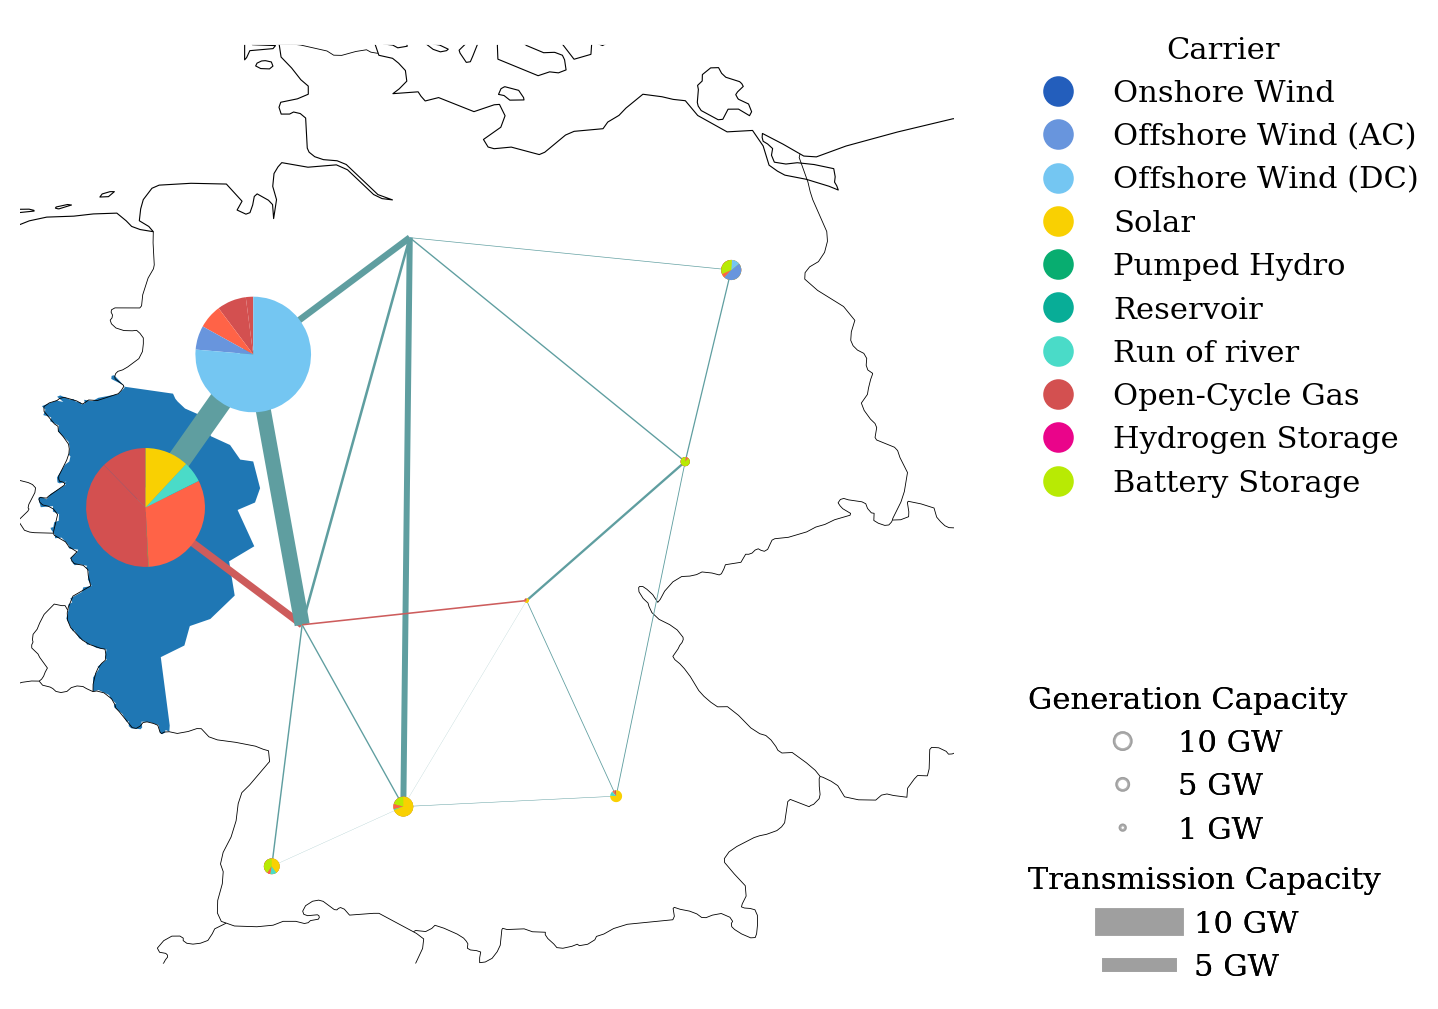
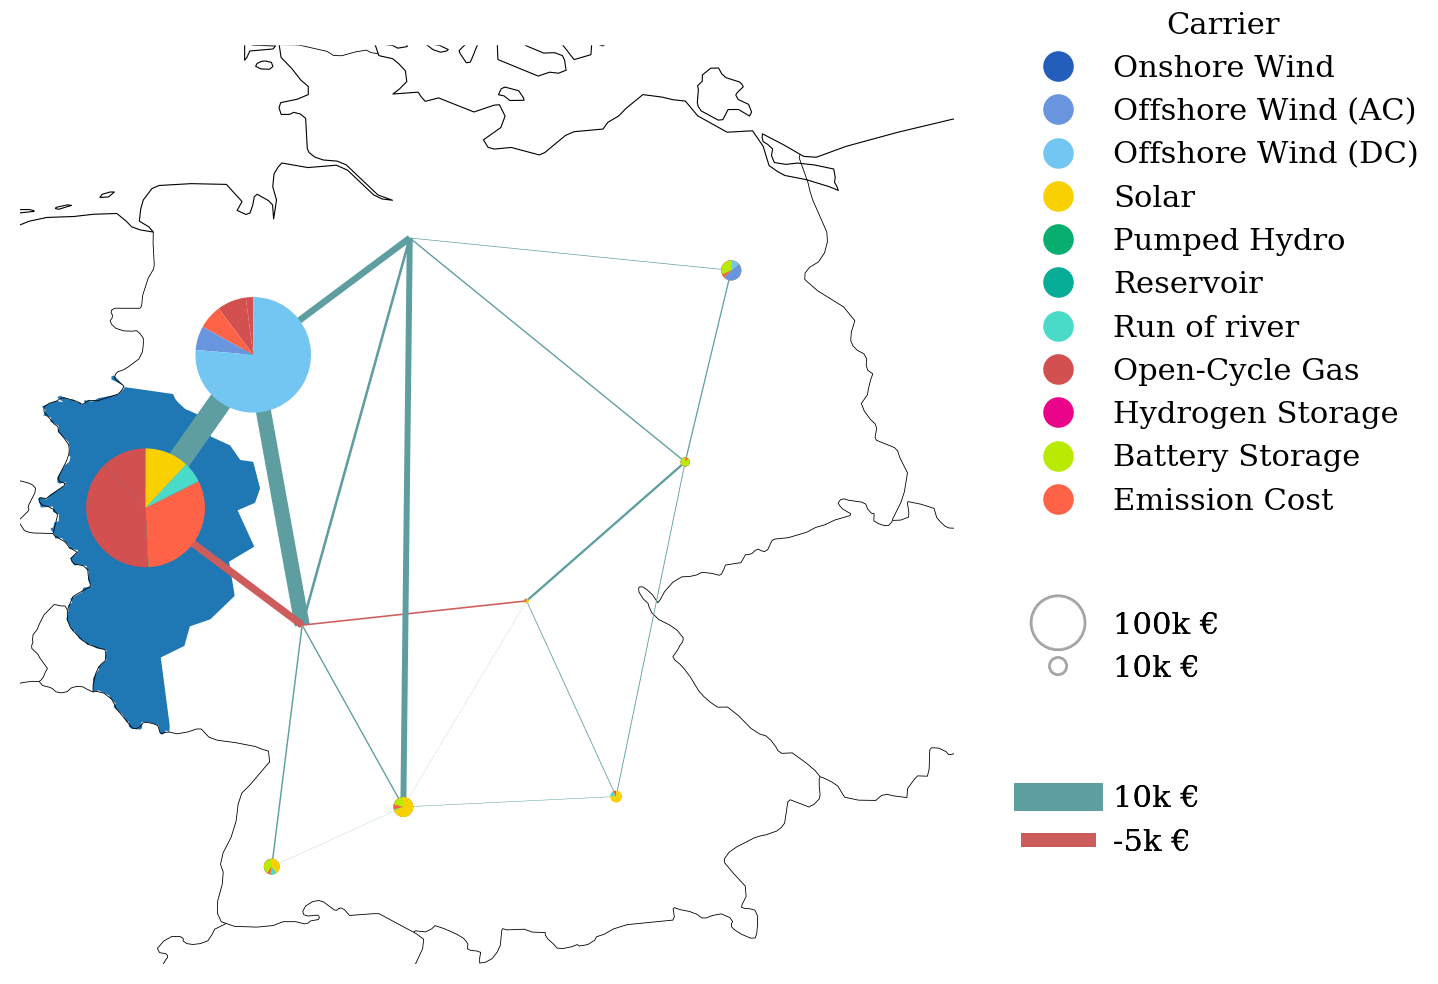
complete allocated payment plot fix plot network for buses without generators

diff --git a/code/plot_allocated_payment.py b/code/plot_allocated_payment.py
@@ -15,7 +15,7 @@ import matplotlib.pyplot as plt
 import cartopy.crs as ccrs
 import matplotlib as mpl
 import pypsa
-from config import color, to_symbol, sink_dims
+from config import color, to_symbol, sink_dims, to_explanation
 import netallocation as ntl
 from matplotlib.pyplot import Line2D
 from pypsa.plot import projected_area_factor
@@ -53,10 +53,10 @@ opex = (payment.one_port_operational_cost.to_series()
 bus_sizes = pd.concat([emission_cost, capex, opex]).sort_index()
 
 capex_colors = n.carriers.color
-opex_alpha = 0.3
+opex_alpha = 1
 opex_colors = (capex_colors
                .apply(lambda c: mpl.colors.to_rgba(c, opex_alpha))
-               # .apply(lambda c: mpl.colors.to_hex(c, True))
+                .apply(lambda c: mpl.colors.to_hex(c, True))
                .rename(lambda s: s + ' opex'))
 emission_color = color.loc[['co2_cost']]
 bus_colors = pd.concat([capex_colors, opex_colors, emission_color])
@@ -73,6 +73,7 @@ n.plot(line_widths=branch_widths['Line'] * branch_scale,
        line_colors=branch_colors['Line'],
        link_colors=branch_colors['Link'],
        ax=ax,
+       bus_alpha=None,
        # geomap='10m',
        boundaries=regions.total_bounds[[0,2,1,3]],
        bus_sizes=bus_sizes * bus_scale,
@@ -81,8 +82,10 @@ n.plot(line_widths=branch_widths['Line'] * branch_scale,
 regions.loc[[sink]].plot(ax=ax, transform=ccrs.PlateCarree(), aspect='equal')
 
 
+legend_colors = (n.carriers.set_index('nice_name').color
+                 .append(emission_color.rename(to_explanation)))
 fig.legend(
-    *ntl.plot.handles_labels_for(n.carriers.set_index('nice_name').color),
+    *ntl.plot.handles_labels_for(legend_colors),
     loc="upper left",
     bbox_to_anchor=(1, 1),
     title='Carrier',
@@ -92,31 +95,30 @@ fig.legend(
 
 
 # legend generator capacities
-reference_caps = [10e3, 5e3, 1e3]
+reference_caps = [100e3, 10e3]
 scale = 1 / bus_scale / projected_area_factor(ax)**2
 handles = make_legend_circles_for(reference_caps, scale=scale,
                                   facecolor="w", edgecolor='grey',
                                   alpha=.5)
-labels = ["%i k "%(s / 1e3) for s in reference_caps]
+labels = ["%ik €"%(s / 1e3) for s in reference_caps]
 handler_map = make_handler_map_to_scale_circles_as_in(ax)
 legend = fig.legend(handles, labels,
-                loc="upper left", bbox_to_anchor=(1., 0.35),
-                frameon=False,  # edgecolor='w',
-                title='Generation Capacity',
+                loc="upper left", bbox_to_anchor=(1., 0.4),
+                frameon=False,
                 handler_map=handler_map)
 fig.add_artist(legend)
 
 # legend transmission capacitues
 handles, labels = [], []
-reference_caps = [10,5]
-handles = [Line2D([0], [0], color='grey', alpha=0.5, linewidth=s*1e3*branch_scale)
-           for s in reference_caps]
-labels = ['%i GW'%s for s in reference_caps]
+reference_caps = [10,-5]
+handles = [Line2D([0], [0], color=c, linewidth=abs(s)*1e3*branch_scale)
+           for s, c in zip(reference_caps, ['cadetblue', 'indianred'])]
+labels = ['%ik €'%s for s in reference_caps]
 
 legend = fig.legend(handles, labels,
-                    loc="lower left", bbox_to_anchor=(1, .0),
+                    loc="lower left", bbox_to_anchor=(1, .1),
                     frameon=False,
-                    title='Transmission Capacity')
+                    )
 fig.artists.append(legend)
 
 

diff --git a/code/plot_network.py b/code/plot_network.py
@@ -37,6 +37,7 @@ if is_brownfield:
                              figsize=(10, 5))
     # existent
     bus_sizes = n.generators.groupby(["bus", "carrier"]).p_nom_min.sum()
+    bus_sizes = bus_sizes.reindex(n.buses.index, level=0, fill_value=0)
     plot = n.plot(
         bus_sizes=bus_sizes * bus_scale,
         line_widths=n.lines.s_nom_min * branch_scale,
